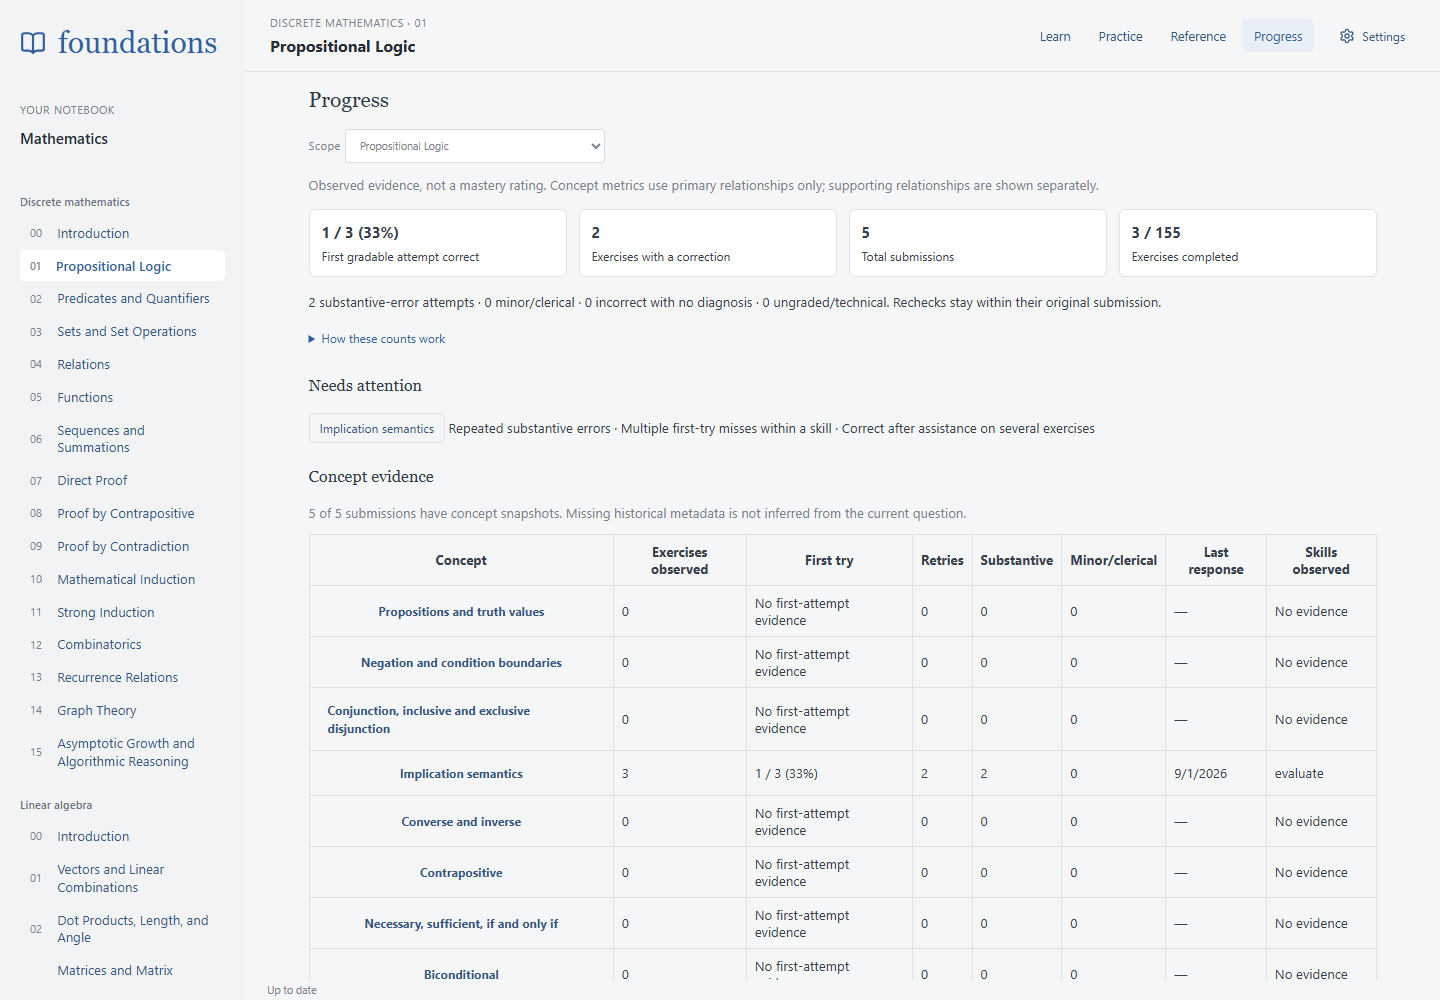
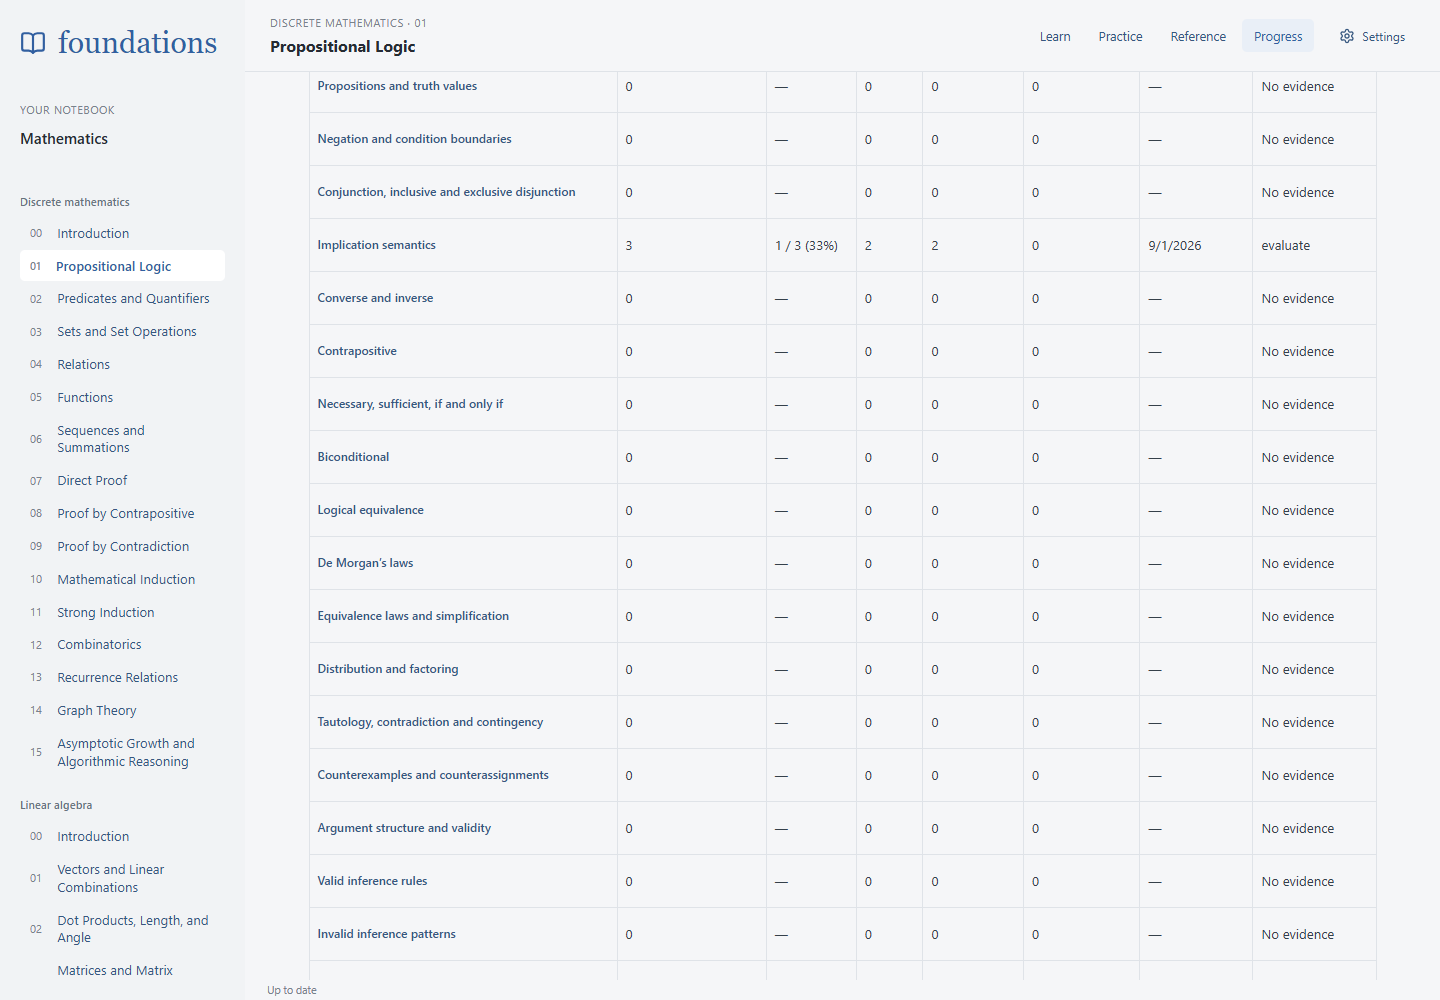
fix: align progress tables and attention rows

diff --git a/web/src/Progress.tsx b/web/src/Progress.tsx
@@ -208,13 +208,16 @@ export function Progress({
       </details>
       <h2>Needs attention</h2>
       {rows.some((r) => r.attention.length) ? (
-        rows
-          .filter((r) => r.attention.length)
-          .map((r) => (
-            <p key={r.id}>
-              <button onClick={() => setSelected(r.id)}>{r.name}</button> {r.attention.join(' · ')}
-            </p>
-          ))
+        <div className="attention-list">
+          {rows
+            .filter((r) => r.attention.length)
+            .map((r) => (
+              <button key={r.id} aria-label={r.name} onClick={() => setSelected(r.id)}>
+                <strong>{r.name}</strong>
+                <span>{r.attention.join(' · ')}</span>
+              </button>
+            ))}
+        </div>
       ) : (
         <p>No repeated patterns meet the attention rules yet. This is not a claim of mastery.</p>
       )}
@@ -249,7 +252,7 @@ export function Progress({
                   </button>
                 </th>
                 <td>{r.summary.observed}</td>
-                <td>{rate(r.summary)}</td>
+                <td title={rate(r.summary)}>{r.summary.firstObserved ? rate(r.summary) : '—'}</td>
                 <td>{r.summary.retries}</td>
                 <td>{r.summary.substantive}</td>
                 <td>{r.summary.minor}</td>

diff --git a/web/src/styles.css b/web/src/styles.css
@@ -1263,7 +1263,16 @@ hr {
 .concept-evidence {
   scroll-margin-top: 16px;
 }
+.concept-evidence th {
+  text-align: left;
+}
 .concept-evidence th button {
+  display: block;
+  width: 100%;
+  padding: 4px 0;
+  min-height: 36px;
+  line-height: 1.4;
+  font-weight: 500;
   white-space: normal;
   text-align: left;
   border: 0;
@@ -1275,10 +1284,42 @@ hr {
     display: none;
   }
   .concept-evidence th:first-child {
-    width: 40%;
+    width: 50%;
   }
   .concept-evidence th,
   .concept-evidence td {
     padding: 6px;
   }
+}
+
+.attention-list {
+  display: grid;
+  margin: 8px 0 24px;
+}
+.attention-list > button {
+  display: flex;
+  flex-direction: column;
+  align-items: flex-start;
+  gap: 4px;
+  width: 100%;
+  padding: 12px 0;
+  border: 0;
+  border-bottom: 1px solid var(--line);
+  border-radius: 0;
+  background: transparent;
+  white-space: normal;
+  text-align: left;
+  line-height: 1.4;
+}
+.attention-list strong {
+  font-weight: 500;
+}
+.attention-list span {
+  color: var(--muted);
+  font-size: 0.82rem;
+}
+.concept-evidence td:nth-child(2),
+.concept-evidence td:nth-child(3) {
+  white-space: nowrap;
+  font-variant-numeric: tabular-nums;
 }
